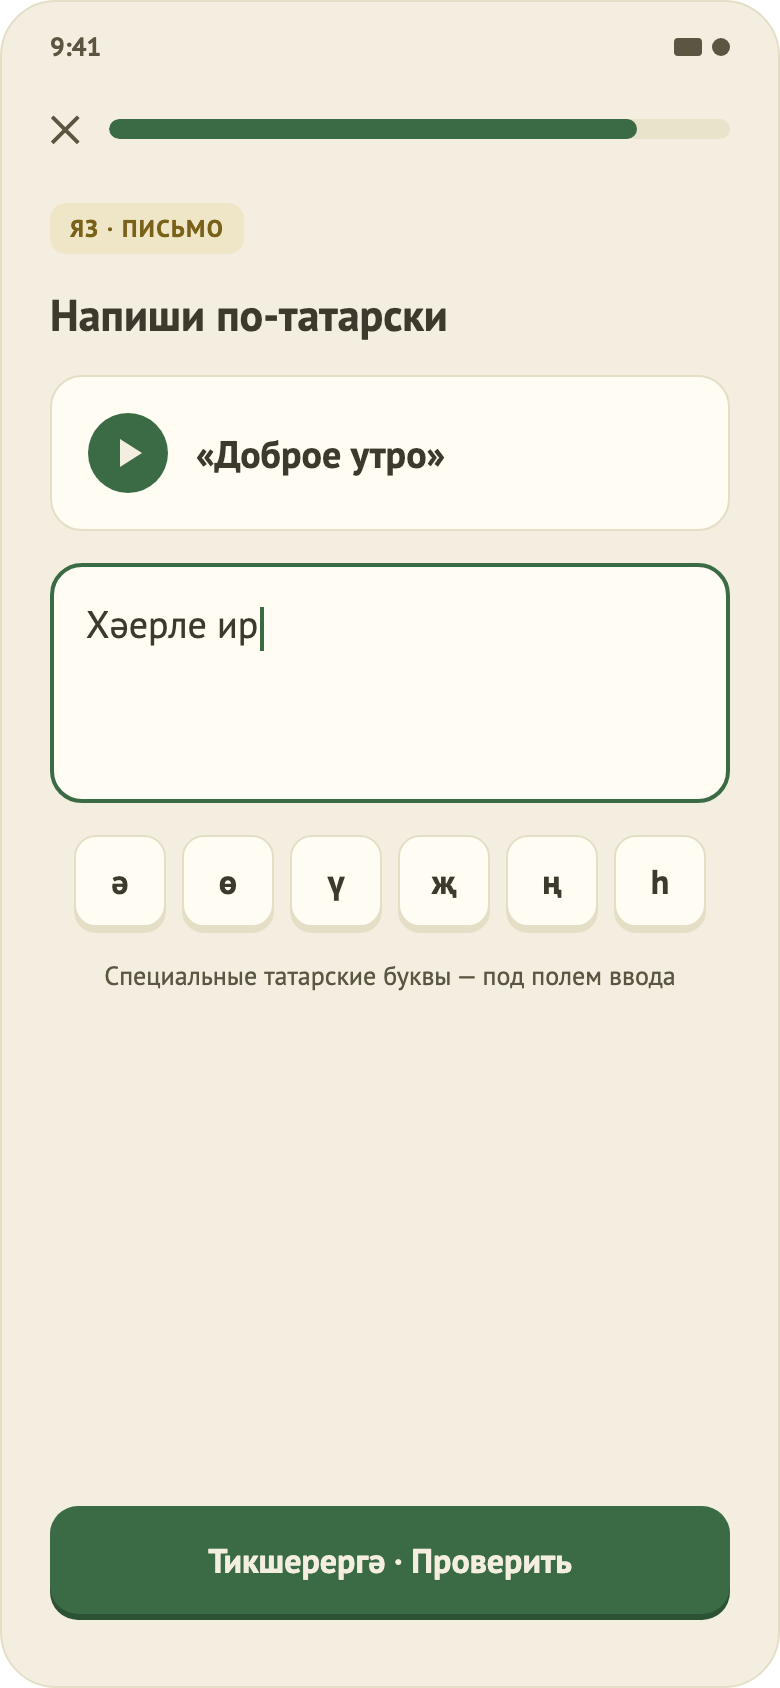
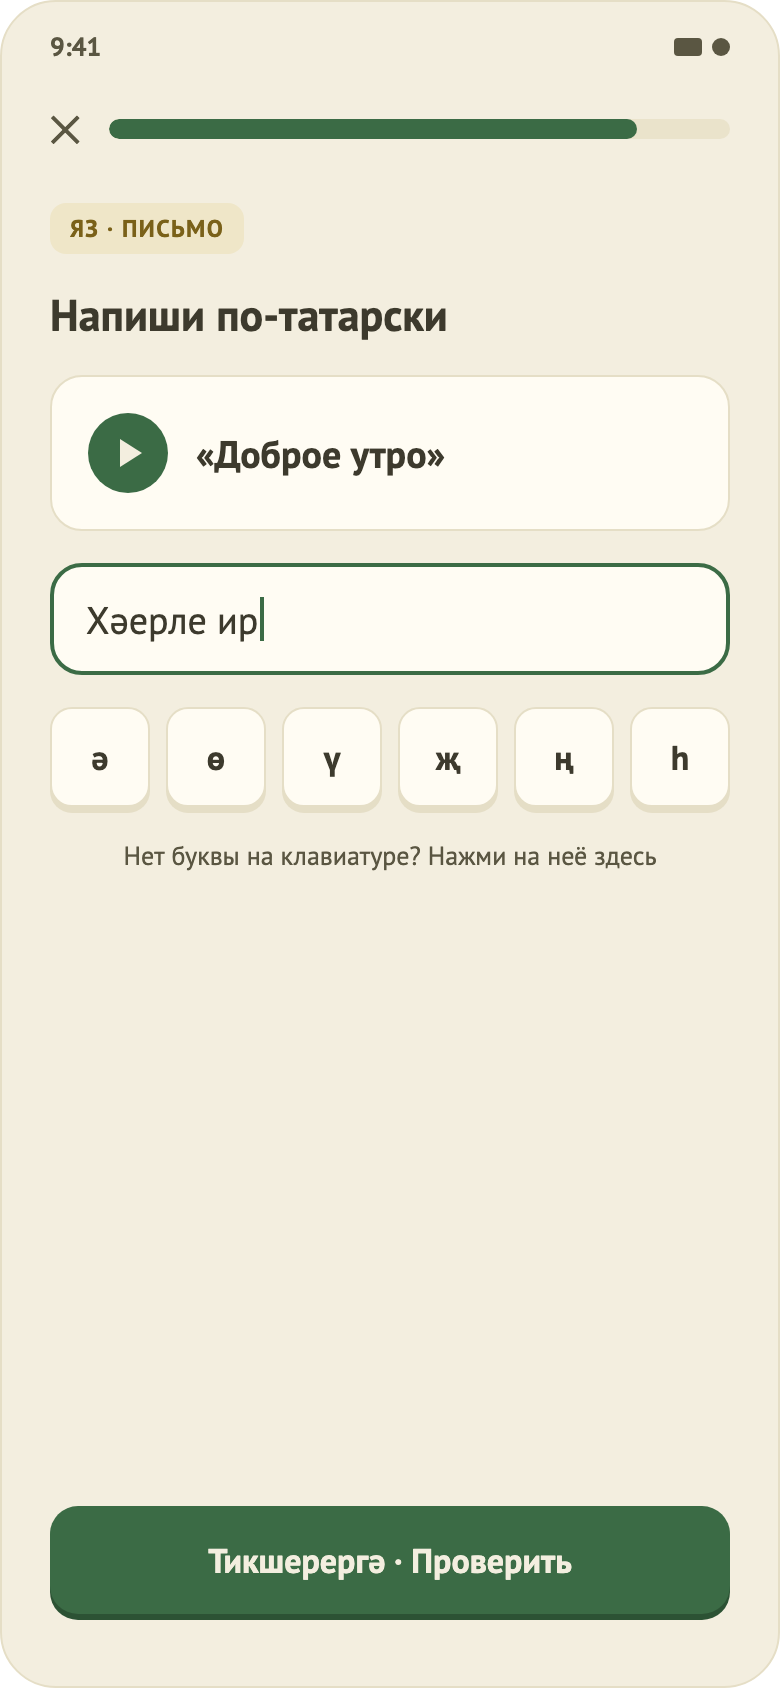
Rework translation input in design: single line field, keyboard state

Changed region(s): [[0.0615, 0.3389, 0.9538, 0.5853]]

diff --git a/design/Tatar App Screens.dc.html b/design/Tatar App Screens.dc.html
@@ -24,7 +24,7 @@
       <div style="width:9px;height:9px;background:#C99A34;transform:rotate(45deg)"></div>
       <div style="width:9px;height:9px;background:#3B6B45;transform:rotate(45deg)"></div>
     </div>
-    <div style="font-size:22px;font-weight:700">Тамыр — изучение татарского · 16 экранов</div>
+    <div style="font-size:22px;font-weight:700">Тамыр — изучение татарского · 17 экранов</div>
     <div style="font-family:ui-monospace,monospace;font-size:12px;color:#5A5642;background:#FFFCF3;border:1px solid #E5DEC6;border-radius:8px;padding:4px 10px">390 × 844 · Android</div>
   </div>
   <div style="font-size:15px;font-weight:700;color:#5A5642;margin-top:8px">Состояния и дополнительные упражнения</div>
@@ -186,16 +186,16 @@
             </div>
             <div style="font-size:19px;font-weight:700">«Доброе утро»</div>
           </div>
-          <div style="min-height:120px;border-radius:16px;background:#FFFCF3;border:2px solid #3B6B45;padding:16px;font-size:19px;box-sizing:border-box">Хәерле ир<span style="display:inline-block;width:2px;height:22px;background:#3B6B45;vertical-align:middle;margin-left:1px"></span></div>
+          <div style="height:56px;border-radius:16px;background:#FFFCF3;border:2px solid #3B6B45;padding:0 16px;font-size:19px;box-sizing:border-box;display:flex;align-items:center">Хәерле ир<span style="display:inline-block;width:2px;height:22px;background:#3B6B45;margin-left:1px"></span></div>
           <div style="display:flex;gap:8px;justify-content:center">
-            <div style="width:44px;height:44px;border-radius:11px;background:#FFFCF3;border:1px solid #E5DEC6;display:flex;align-items:center;justify-content:center;font-size:17px;font-weight:700;box-shadow:0 3px 0 #E5DEC6">ә</div>
-            <div style="width:44px;height:44px;border-radius:11px;background:#FFFCF3;border:1px solid #E5DEC6;display:flex;align-items:center;justify-content:center;font-size:17px;font-weight:700;box-shadow:0 3px 0 #E5DEC6">ө</div>
-            <div style="width:44px;height:44px;border-radius:11px;background:#FFFCF3;border:1px solid #E5DEC6;display:flex;align-items:center;justify-content:center;font-size:17px;font-weight:700;box-shadow:0 3px 0 #E5DEC6">ү</div>
-            <div style="width:44px;height:44px;border-radius:11px;background:#FFFCF3;border:1px solid #E5DEC6;display:flex;align-items:center;justify-content:center;font-size:17px;font-weight:700;box-shadow:0 3px 0 #E5DEC6">җ</div>
-            <div style="width:44px;height:44px;border-radius:11px;background:#FFFCF3;border:1px solid #E5DEC6;display:flex;align-items:center;justify-content:center;font-size:17px;font-weight:700;box-shadow:0 3px 0 #E5DEC6">ң</div>
-            <div style="width:44px;height:44px;border-radius:11px;background:#FFFCF3;border:1px solid #E5DEC6;display:flex;align-items:center;justify-content:center;font-size:17px;font-weight:700;box-shadow:0 3px 0 #E5DEC6">һ</div>
+            <div style="width:48px;height:48px;border-radius:11px;background:#FFFCF3;border:1px solid #E5DEC6;display:flex;align-items:center;justify-content:center;font-size:17px;font-weight:700;box-shadow:0 3px 0 #E5DEC6">ә</div>
+            <div style="width:48px;height:48px;border-radius:11px;background:#FFFCF3;border:1px solid #E5DEC6;display:flex;align-items:center;justify-content:center;font-size:17px;font-weight:700;box-shadow:0 3px 0 #E5DEC6">ө</div>
+            <div style="width:48px;height:48px;border-radius:11px;background:#FFFCF3;border:1px solid #E5DEC6;display:flex;align-items:center;justify-content:center;font-size:17px;font-weight:700;box-shadow:0 3px 0 #E5DEC6">ү</div>
+            <div style="width:48px;height:48px;border-radius:11px;background:#FFFCF3;border:1px solid #E5DEC6;display:flex;align-items:center;justify-content:center;font-size:17px;font-weight:700;box-shadow:0 3px 0 #E5DEC6">җ</div>
+            <div style="width:48px;height:48px;border-radius:11px;background:#FFFCF3;border:1px solid #E5DEC6;display:flex;align-items:center;justify-content:center;font-size:17px;font-weight:700;box-shadow:0 3px 0 #E5DEC6">ң</div>
+            <div style="width:48px;height:48px;border-radius:11px;background:#FFFCF3;border:1px solid #E5DEC6;display:flex;align-items:center;justify-content:center;font-size:17px;font-weight:700;box-shadow:0 3px 0 #E5DEC6">һ</div>
           </div>
-          <div style="font-size:13px;color:#5A5642;text-align:center">Специальные татарские буквы — под полем ввода</div>
+          <div style="font-size:13px;color:#5A5642;text-align:center">Нет буквы на клавиатуре? Нажми на неё здесь</div>
         </div>
         <div style="margin-top:auto;padding:0 24px 36px">
           <div style="height:54px;border-radius:14px;background:#3B6B45;color:#F3EEDF;display:flex;align-items:center;justify-content:center;font-size:17px;font-weight:700;box-shadow:0 3px 0 #2C5234">Тикшерергә · Проверить</div>
@@ -330,6 +330,50 @@
     <!-- ═══ 16. Заглушка раздела (татарский текст подтверждён автором-носителем) ═══ -->
     <div data-screen-label="16 Заглушка раздела" style="display:flex;flex-direction:column;gap:10px"><div style="font-family:ui-monospace,monospace;font-size:12px;color:#5A5642">16 · заглушка раздела (Сүзлек, Ярыш, Профиль)</div><div style="width:390px;height:844px;background:#F3EEDF;border:1px solid #E5DEC6;border-radius:28px;box-shadow:0 14px 36px rgba(61,58,45,.14);overflow:hidden;display:flex;flex-direction:column;box-sizing:border-box"><div style="display:flex;justify-content:space-between;align-items:center;padding:14px 24px 4px;font-size:13px;font-weight:700;color:#5A5642"><div>9:41</div><div style="display:flex;gap:5px;align-items:center"><div style="width:14px;height:9px;background:#5A5642;border-radius:2px"></div><div style="width:9px;height:9px;background:#5A5642;border-radius:50%"></div></div></div><div style="flex:1;display:flex;flex-direction:column;align-items:center;justify-content:center;padding:0 32px;gap:20px;text-align:center"><svg xmlns="http://www.w3.org/2000/svg" viewBox="0 0 400 400" width="150" height="150" style="display:block;flex-shrink:0"><path d="M276 92 L310 92 L276 126 L310 126" fill="none" stroke="#3B6B45" stroke-width="5" stroke-linecap="round" stroke-linejoin="round"/><path d="M326 56 L348 56 L326 78 L348 78" fill="none" stroke="#3B6B45" stroke-width="4" stroke-linecap="round" stroke-linejoin="round"/><path d="M356 30 L370 30 L356 44 L370 44" fill="none" stroke="#3B6B45" stroke-width="4" stroke-linecap="round" stroke-linejoin="round"/><ellipse cx="228" cy="300" rx="140" ry="72" fill="#A8693A"/><path d="M220 236 Q236 250 232 270" fill="none" stroke="#86502B" stroke-width="9" stroke-linecap="round" stroke-linejoin="round"/><path d="M262 236 Q278 250 274 272" fill="none" stroke="#86502B" stroke-width="9" stroke-linecap="round" stroke-linejoin="round"/><path d="M304 246 Q316 258 312 278" fill="none" stroke="#86502B" stroke-width="9" stroke-linecap="round" stroke-linejoin="round"/><path d="M362 318 Q372 382 260 376 Q190 374 150 362" fill="none" stroke="#A8693A" stroke-width="26" stroke-linecap="round" stroke-linejoin="round"/><g transform="translate(140 282) rotate(-12) scale(0.82) translate(-200 -165)"><g transform="rotate(0 140 122)"><path d="M108 148 L97 80 Q96 63 111 68 L168 100 Z" fill="#A8693A"/><path d="M117 128 L110 86 L146 106 Z" fill="#C98B55"/></g><g transform="translate(400 0) scale(-1 1)"><g transform="rotate(0 140 122)"><path d="M108 148 L97 80 Q96 63 111 68 L168 100 Z" fill="#A8693A"/><path d="M117 128 L110 86 L146 106 Z" fill="#C98B55"/></g></g><ellipse cx="200" cy="165" rx="95" ry="82" fill="#A8693A"/><ellipse cx="128" cy="195" rx="30" ry="34" fill="#A8693A"/><ellipse cx="272" cy="195" rx="30" ry="34" fill="#A8693A"/><ellipse cx="185" cy="203" rx="24" ry="19" fill="#F0DDB8"/><ellipse cx="215" cy="203" rx="24" ry="19" fill="#F0DDB8"/><ellipse cx="140" cy="190" rx="15" ry="9" fill="#B5522F" fill-opacity="0.3"/><ellipse cx="260" cy="190" rx="15" ry="9" fill="#B5522F" fill-opacity="0.3"/><path d="M150 156 Q165 168 180 156" fill="none" stroke="#3D3A2D" stroke-width="6" stroke-linecap="round" stroke-linejoin="round"/><path d="M220 156 Q235 168 250 156" fill="none" stroke="#3D3A2D" stroke-width="6" stroke-linecap="round" stroke-linejoin="round"/><path d="M188 208 Q200 213 212 208" fill="none" stroke="#3D3A2D" stroke-width="5" stroke-linecap="round" stroke-linejoin="round"/><path d="M200 182 L209 191 L200 200 L191 191 Z" fill="#B5522F"/><path d="M146 196 L100 186" fill="none" stroke="#86502B" stroke-width="3" stroke-linecap="round" stroke-linejoin="round"/><path d="M146 204 L98 204" fill="none" stroke="#86502B" stroke-width="3" stroke-linecap="round" stroke-linejoin="round"/><path d="M146 212 L102 222" fill="none" stroke="#86502B" stroke-width="3" stroke-linecap="round" stroke-linejoin="round"/><path d="M254 196 L300 186" fill="none" stroke="#86502B" stroke-width="3" stroke-linecap="round" stroke-linejoin="round"/><path d="M254 204 L302 204" fill="none" stroke="#86502B" stroke-width="3" stroke-linecap="round" stroke-linejoin="round"/><path d="M254 212 L298 222" fill="none" stroke="#86502B" stroke-width="3" stroke-linecap="round" stroke-linejoin="round"/><g transform="rotate(-24 200 118) translate(-6 8)"><path d="M130 121 Q130 66 200 64 Q270 66 270 121 Z" fill="#3B6B45"/><path d="M150 121 Q152 80 200 72 Q172 86 170 121 Z" fill="#2C5234"/><rect x="126" y="108" width="148" height="16" rx="6" fill="#C99A34"/><path d="M200 77 L211 88 L200 99 L189 88 Z" fill="#C99A34"/></g></g><ellipse cx="166" cy="356" rx="28" ry="15" fill="#C98B55"/><ellipse cx="212" cy="362" rx="28" ry="15" fill="#C98B55"/></svg>
 <div style="align-self:center;background:#EFE6C8;color:#7A6119;border-radius:8px;padding:4px 10px;font-size:13px;font-weight:700">Тиздән · Скоро</div><div style="display:flex;flex-direction:column;gap:10px"><div style="font-size:26px;font-weight:700">Сүзлек әзерләнә</div><div style="font-size:16px;color:#5A5642;line-height:1.45">Словарь ещё готовится. Мыраужан вздремнул, но скоро проснётся.</div></div></div><div style="margin-top:auto;border-top:1px solid #E5DEC6;background:#FFFCF3;display:flex;padding:10px 12px 22px"><div style="flex:1;display:flex;flex-direction:column;align-items:center;gap:5px"><div style="width:20px;height:20px;position:relative"><div style="position:absolute;top:0;left:1px;width:0;height:0;border-left:9px solid transparent;border-right:9px solid transparent;border-bottom:9px solid #5A5642"></div><div style="position:absolute;bottom:0;left:4px;width:12px;height:10px;background:#5A5642;border-radius:0 0 3px 3px"></div></div><div style="font-size:11px;color:#5A5642">Өй</div></div><div style="flex:1;display:flex;flex-direction:column;align-items:center;gap:5px"><svg width="20" height="20" viewBox="0 0 20 20" fill="none" stroke="#3B6B45" stroke-width="1.8" stroke-linejoin="round" stroke-linecap="round"><path d="M10 5.2C8 3.7 5.2 3.4 2.6 4.2V15.2C5.2 14.4 8 14.7 10 16.2C12 14.7 14.8 14.4 17.4 15.2V4.2C14.8 3.4 12 3.7 10 5.2Z"/><path d="M10 5.2V16.2"/></svg><div style="font-size:11px;font-weight:700;color:#3B6B45">Сүзлек</div></div><div style="flex:1;display:flex;flex-direction:column;align-items:center;gap:5px"><div style="width:20px;height:20px;position:relative"><div style="position:absolute;top:1px;left:3px;width:14px;height:11px;background:#5A5642;border-radius:2px 2px 10px 10px"></div><div style="position:absolute;top:12px;left:8px;width:4px;height:4px;background:#5A5642"></div><div style="position:absolute;bottom:0;left:5px;width:10px;height:3px;background:#5A5642;border-radius:2px"></div></div><div style="font-size:11px;color:#5A5642">Ярыш</div></div><div style="flex:1;display:flex;flex-direction:column;align-items:center;gap:5px"><div style="width:20px;height:20px;position:relative"><div style="position:absolute;top:1px;left:6px;width:8px;height:8px;border-radius:50%;background:#5A5642"></div><div style="position:absolute;bottom:0;left:2px;width:16px;height:8px;background:#5A5642;border-radius:8px 8px 3px 3px"></div></div><div style="font-size:11px;color:#5A5642">Профиль</div></div></div></div></div>
+
+    <!-- ═══ 17. Ввод перевода с открытой клавиатурой ═══ -->
+    <div data-screen-label="17 Ввод перевода с клавиатурой" style="display:flex;flex-direction:column;gap:10px">
+      <div style="font-family:ui-monospace,monospace;font-size:12px;color:#5A5642">17 · письменный перевод, клавиатура открыта</div>
+      <div style="width:390px;height:844px;background:#F3EEDF;border:1px solid #E5DEC6;border-radius:28px;box-shadow:0 14px 36px rgba(61,58,45,.14);overflow:hidden;display:flex;flex-direction:column;box-sizing:border-box">
+        <div style="display:flex;justify-content:space-between;align-items:center;padding:14px 24px 4px;font-size:13px;font-weight:700;color:#5A5642"><div>9:41</div><div style="display:flex;gap:5px;align-items:center"><div style="width:14px;height:9px;background:#5A5642;border-radius:2px"></div><div style="width:9px;height:9px;background:#5A5642;border-radius:50%"></div></div></div>
+        <div style="padding:16px 24px 0;display:flex;align-items:center;gap:14px">
+          <div style="font-size:20px;color:#5A5642">✕</div>
+          <div style="flex:1;height:10px;border-radius:5px;background:#EAE3CB;overflow:hidden"><div style="width:85%;height:100%;background:#3B6B45;border-radius:5px"></div></div>
+          
+        </div>
+        <div style="padding:24px 24px 0;display:flex;flex-direction:column;gap:16px">
+          <div style="align-self:flex-start;background:#EFE6C8;color:#7A6119;font-size:12px;font-weight:700;text-transform:uppercase;letter-spacing:.06em;border-radius:8px;padding:5px 10px">Яз · письмо</div>
+          <div style="font-size:22px;font-weight:700">Напиши по-татарски</div>
+          <div style="background:#FFFCF3;border:1px solid #E5DEC6;border-radius:16px;padding:18px;display:flex;align-items:center;gap:14px">
+            <div style="width:40px;height:40px;border-radius:50%;background:#3B6B45;display:flex;align-items:center;justify-content:center;flex-shrink:0">
+              <div style="width:0;height:0;border-left:11px solid #F3EEDF;border-top:7px solid transparent;border-bottom:7px solid transparent;margin-left:3px"></div>
+            </div>
+            <div style="font-size:19px;font-weight:700">«Доброе утро»</div>
+          </div>
+          <div style="height:56px;border-radius:16px;background:#FFFCF3;border:2px solid #3B6B45;padding:0 16px;font-size:19px;box-sizing:border-box;display:flex;align-items:center">Хәерле ир<span style="display:inline-block;width:2px;height:22px;background:#3B6B45;margin-left:1px"></span></div>
+          <div style="display:flex;gap:8px;justify-content:center">
+            <div style="width:48px;height:48px;border-radius:11px;background:#FFFCF3;border:1px solid #E5DEC6;display:flex;align-items:center;justify-content:center;font-size:17px;font-weight:700;box-shadow:0 3px 0 #E5DEC6">ә</div>
+            <div style="width:48px;height:48px;border-radius:11px;background:#FFFCF3;border:1px solid #E5DEC6;display:flex;align-items:center;justify-content:center;font-size:17px;font-weight:700;box-shadow:0 3px 0 #E5DEC6">ө</div>
+            <div style="width:48px;height:48px;border-radius:11px;background:#FFFCF3;border:1px solid #E5DEC6;display:flex;align-items:center;justify-content:center;font-size:17px;font-weight:700;box-shadow:0 3px 0 #E5DEC6">ү</div>
+            <div style="width:48px;height:48px;border-radius:11px;background:#FFFCF3;border:1px solid #E5DEC6;display:flex;align-items:center;justify-content:center;font-size:17px;font-weight:700;box-shadow:0 3px 0 #E5DEC6">җ</div>
+            <div style="width:48px;height:48px;border-radius:11px;background:#FFFCF3;border:1px solid #E5DEC6;display:flex;align-items:center;justify-content:center;font-size:17px;font-weight:700;box-shadow:0 3px 0 #E5DEC6">ң</div>
+            <div style="width:48px;height:48px;border-radius:11px;background:#FFFCF3;border:1px solid #E5DEC6;display:flex;align-items:center;justify-content:center;font-size:17px;font-weight:700;box-shadow:0 3px 0 #E5DEC6">һ</div>
+          </div>
+          
+        </div>
+        <div style="margin-top:auto;padding:12px 24px 12px">
+          <div style="height:54px;border-radius:14px;background:#3B6B45;color:#F3EEDF;display:flex;align-items:center;justify-content:center;font-size:17px;font-weight:700;box-shadow:0 3px 0 #2C5234">Тикшерергә · Проверить</div>
+        </div>
+        <div style="height:300px;background:#EAE3CB;border-top:1px solid #D9CFB2;padding:10px 6px 0;box-sizing:border-box;display:flex;flex-direction:column;gap:10px">
+          <div style="display:flex;gap:5px;justify-content:center"><div style="height:42px;flex:1;max-width:32px;border-radius:6px;background:#FFFCF3;border:1px solid #D9CFB2"></div><div style="height:42px;flex:1;max-width:32px;border-radius:6px;background:#FFFCF3;border:1px solid #D9CFB2"></div><div style="height:42px;flex:1;max-width:32px;border-radius:6px;background:#FFFCF3;border:1px solid #D9CFB2"></div><div style="height:42px;flex:1;max-width:32px;border-radius:6px;background:#FFFCF3;border:1px solid #D9CFB2"></div><div style="height:42px;flex:1;max-width:32px;border-radius:6px;background:#FFFCF3;border:1px solid #D9CFB2"></div><div style="height:42px;flex:1;max-width:32px;border-radius:6px;background:#FFFCF3;border:1px solid #D9CFB2"></div><div style="height:42px;flex:1;max-width:32px;border-radius:6px;background:#FFFCF3;border:1px solid #D9CFB2"></div><div style="height:42px;flex:1;max-width:32px;border-radius:6px;background:#FFFCF3;border:1px solid #D9CFB2"></div><div style="height:42px;flex:1;max-width:32px;border-radius:6px;background:#FFFCF3;border:1px solid #D9CFB2"></div><div style="height:42px;flex:1;max-width:32px;border-radius:6px;background:#FFFCF3;border:1px solid #D9CFB2"></div></div>
+          <div style="display:flex;gap:5px;justify-content:center"><div style="height:42px;flex:1;max-width:32px;border-radius:6px;background:#FFFCF3;border:1px solid #D9CFB2"></div><div style="height:42px;flex:1;max-width:32px;border-radius:6px;background:#FFFCF3;border:1px solid #D9CFB2"></div><div style="height:42px;flex:1;max-width:32px;border-radius:6px;background:#FFFCF3;border:1px solid #D9CFB2"></div><div style="height:42px;flex:1;max-width:32px;border-radius:6px;background:#FFFCF3;border:1px solid #D9CFB2"></div><div style="height:42px;flex:1;max-width:32px;border-radius:6px;background:#FFFCF3;border:1px solid #D9CFB2"></div><div style="height:42px;flex:1;max-width:32px;border-radius:6px;background:#FFFCF3;border:1px solid #D9CFB2"></div><div style="height:42px;flex:1;max-width:32px;border-radius:6px;background:#FFFCF3;border:1px solid #D9CFB2"></div><div style="height:42px;flex:1;max-width:32px;border-radius:6px;background:#FFFCF3;border:1px solid #D9CFB2"></div><div style="height:42px;flex:1;max-width:32px;border-radius:6px;background:#FFFCF3;border:1px solid #D9CFB2"></div></div>
+          <div style="display:flex;gap:5px;justify-content:center"><div style="height:42px;flex:1;max-width:32px;border-radius:6px;background:#FFFCF3;border:1px solid #D9CFB2"></div><div style="height:42px;flex:1;max-width:32px;border-radius:6px;background:#FFFCF3;border:1px solid #D9CFB2"></div><div style="height:42px;flex:1;max-width:32px;border-radius:6px;background:#FFFCF3;border:1px solid #D9CFB2"></div><div style="height:42px;flex:1;max-width:32px;border-radius:6px;background:#FFFCF3;border:1px solid #D9CFB2"></div><div style="height:42px;flex:1;max-width:32px;border-radius:6px;background:#FFFCF3;border:1px solid #D9CFB2"></div><div style="height:42px;flex:1;max-width:32px;border-radius:6px;background:#FFFCF3;border:1px solid #D9CFB2"></div><div style="height:42px;flex:1;max-width:32px;border-radius:6px;background:#FFFCF3;border:1px solid #D9CFB2"></div></div>
+          <div style="display:flex;gap:5px;justify-content:center"><div style="height:42px;width:90px;border-radius:6px;background:#FFFCF3;border:1px solid #D9CFB2"></div><div style="height:42px;flex:1;border-radius:6px;background:#FFFCF3;border:1px solid #D9CFB2;max-width:170px"></div><div style="height:42px;width:90px;border-radius:6px;background:#3B6B45;color:#F3EEDF;display:flex;align-items:center;justify-content:center;font-size:15px;font-weight:700">Готово</div></div>
+          <div style="font-size:11px;color:#5A5642;text-align:center;font-family:ui-monospace,monospace">системная клавиатура (схема): «Готово» закрывает её и проверяет ответ</div>
+        </div>
+      </div>
+    </div>
+
 
   </div>
   <div style="font-size:15px;font-weight:700;color:#5A5642;margin-top:8px">Основные экраны</div>
